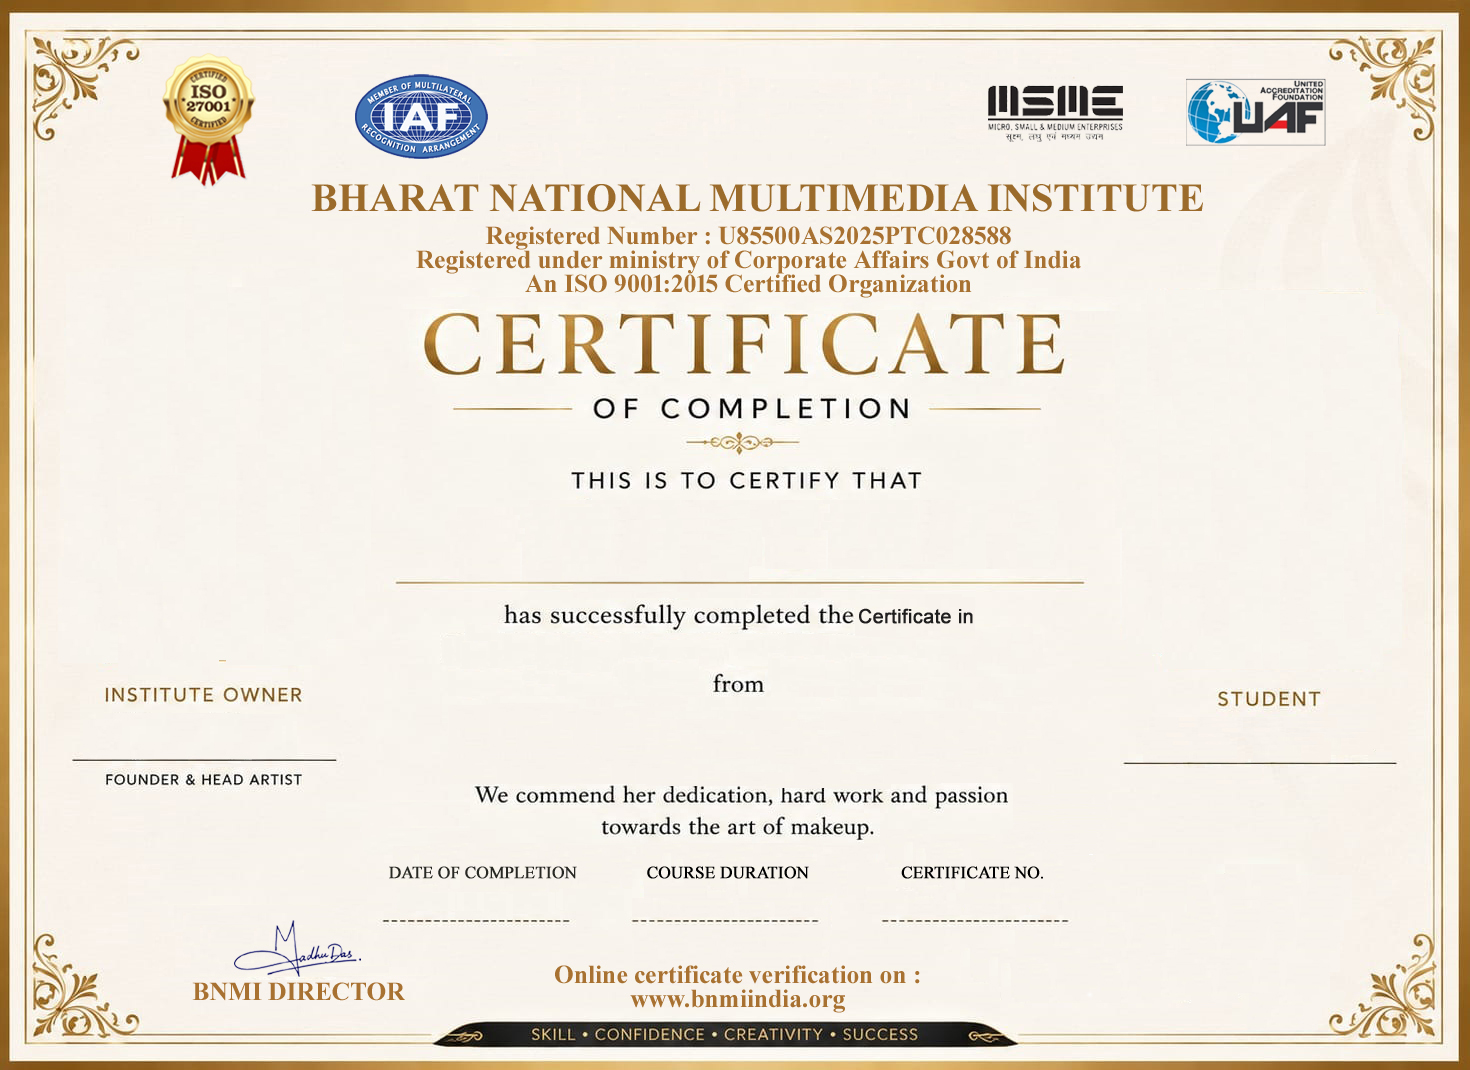
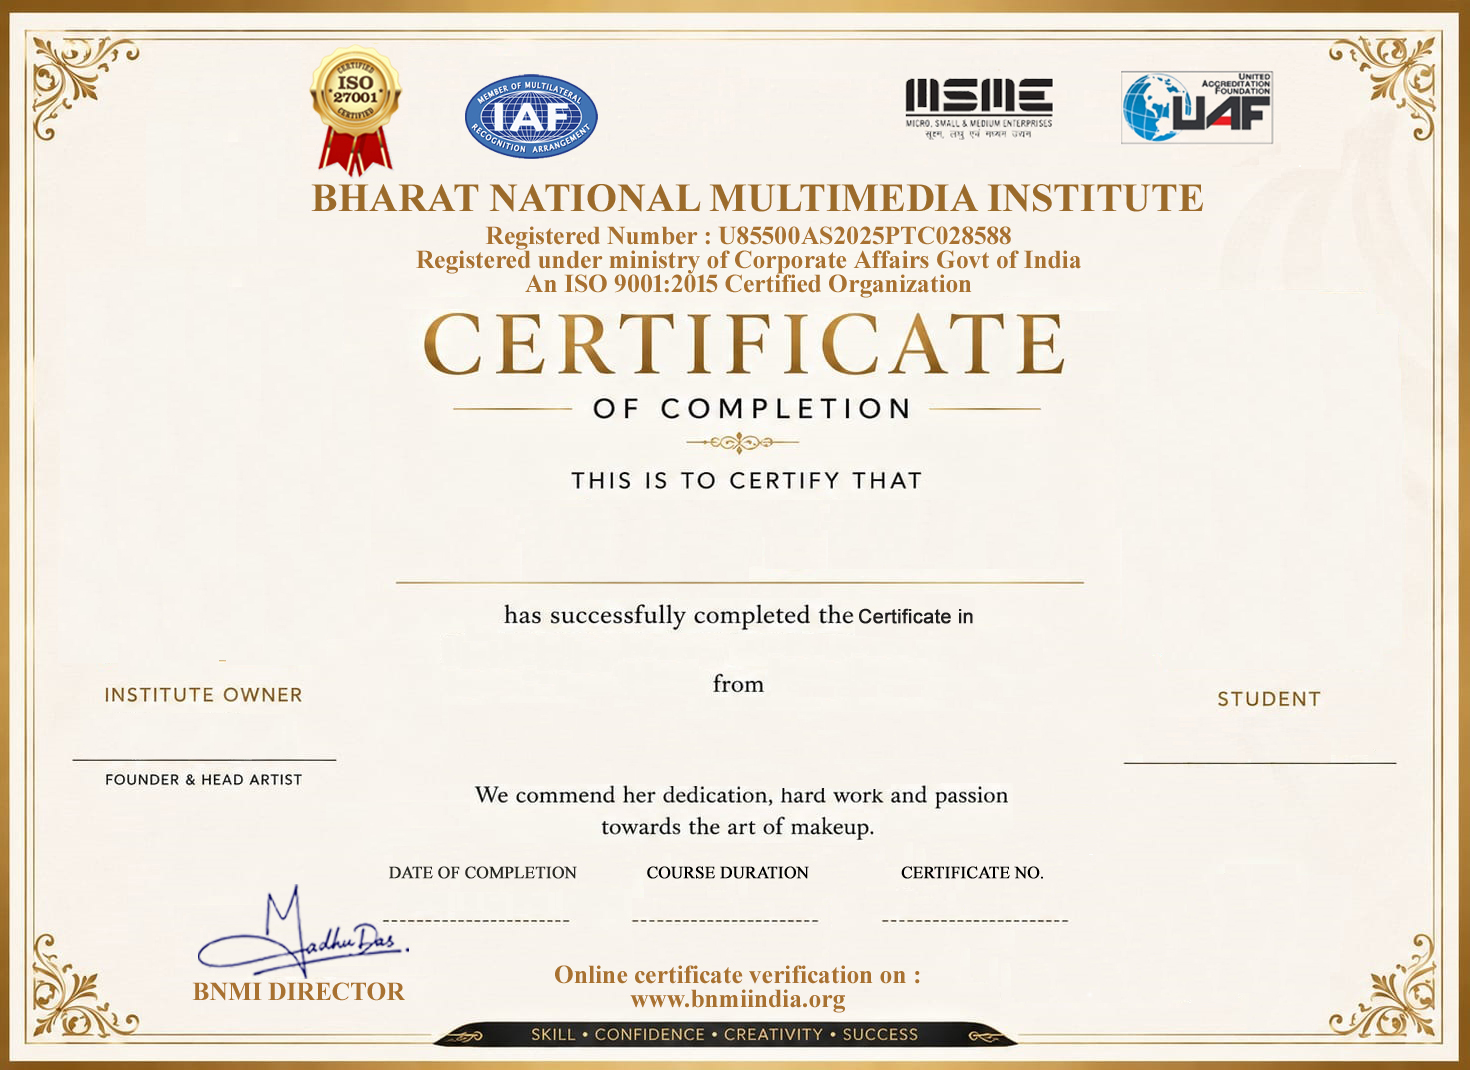
img changr

diff --git a/src/app/login/institute/(protected)/add-course/beauty_certificate/view/[certificateNo]/page.jsx b/src/app/login/institute/(protected)/add-course/beauty_certificate/view/[certificateNo]/page.jsx
@@ -270,18 +270,18 @@ const downloadCertificate = async () => {
   <img
     src={certificate.logo}
     alt="Franchise Logo"
-    className="absolute object-contain rounded-full"
+    className="absolute object-cover rounded-full"
     style={{
-      top: "45px",
+      top: "25px",
       left: "50%",
       transform: "translateX(-50%)",
-      width: "210px",
-      height: "130px",
+      width: "150px",
+      height: "150px",
       zIndex: 10,
-      
     }}
   />
 )}
+
             {/* STUDENT NAME */}
             <div
               className="absolute"
@@ -325,18 +325,19 @@ const downloadCertificate = async () => {
               </h2>
             </div>
 
-            {/* STUDENT PHOTO */}
-            <img
-              src={certificate.studentPhoto}
-              alt=""
-              className="absolute object-cover border"
-              style={{
-                top: '350px',
-                right: '70px',
-                width: '250px',
-                height: '300px'
-              }}
-            />
+           {/* STUDENT PHOTO */}
+<img
+  src={certificate.studentPhoto}
+  alt=""
+  className="absolute object-cover border"
+  style={{
+    top: "350px",
+    right: "70px",
+    width: "250px",
+    height: "300px",
+    borderRadius: "10%",
+  }}
+/>
 
             {/* STUDENT SIGNATURE */}
             <img
@@ -364,18 +365,19 @@ const downloadCertificate = async () => {
               }}
             />
 
-            {/* OWNER PHOTO */}
-            <img
-              src={certificate.ownerPhoto}
-              alt=""
-              className="absolute object-cover border"
-              style={{
-                top: '350px',
-                left: '70px',
-                width: '250px',
-                height: '300px'
-              }}
-            />
+          {/* OWNER PHOTO */}
+<img
+  src={certificate.ownerPhoto}
+  alt=""
+  className="absolute object-cover border"
+  style={{
+    top: "265px",
+    left: "40px",
+    width: "370px",
+    height: "410px",
+    borderRadius: "10%",
+  }}
+/>
 
             {/* DATE OF COMPLETION */}
             <div

diff --git a/src/app/login/institute/(protected)/add-course/beauty_certificate/marksheet/[certificateNo]/page.jsx b/src/app/login/institute/(protected)/add-course/beauty_certificate/marksheet/[certificateNo]/page.jsx
@@ -322,7 +322,7 @@ return (
             className="absolute text-[19px] font-semibold text-center"
             style={{
               top: "350px",
-              left: "760px",
+              left: "660px",
               width: "520px"
             }}
           >
